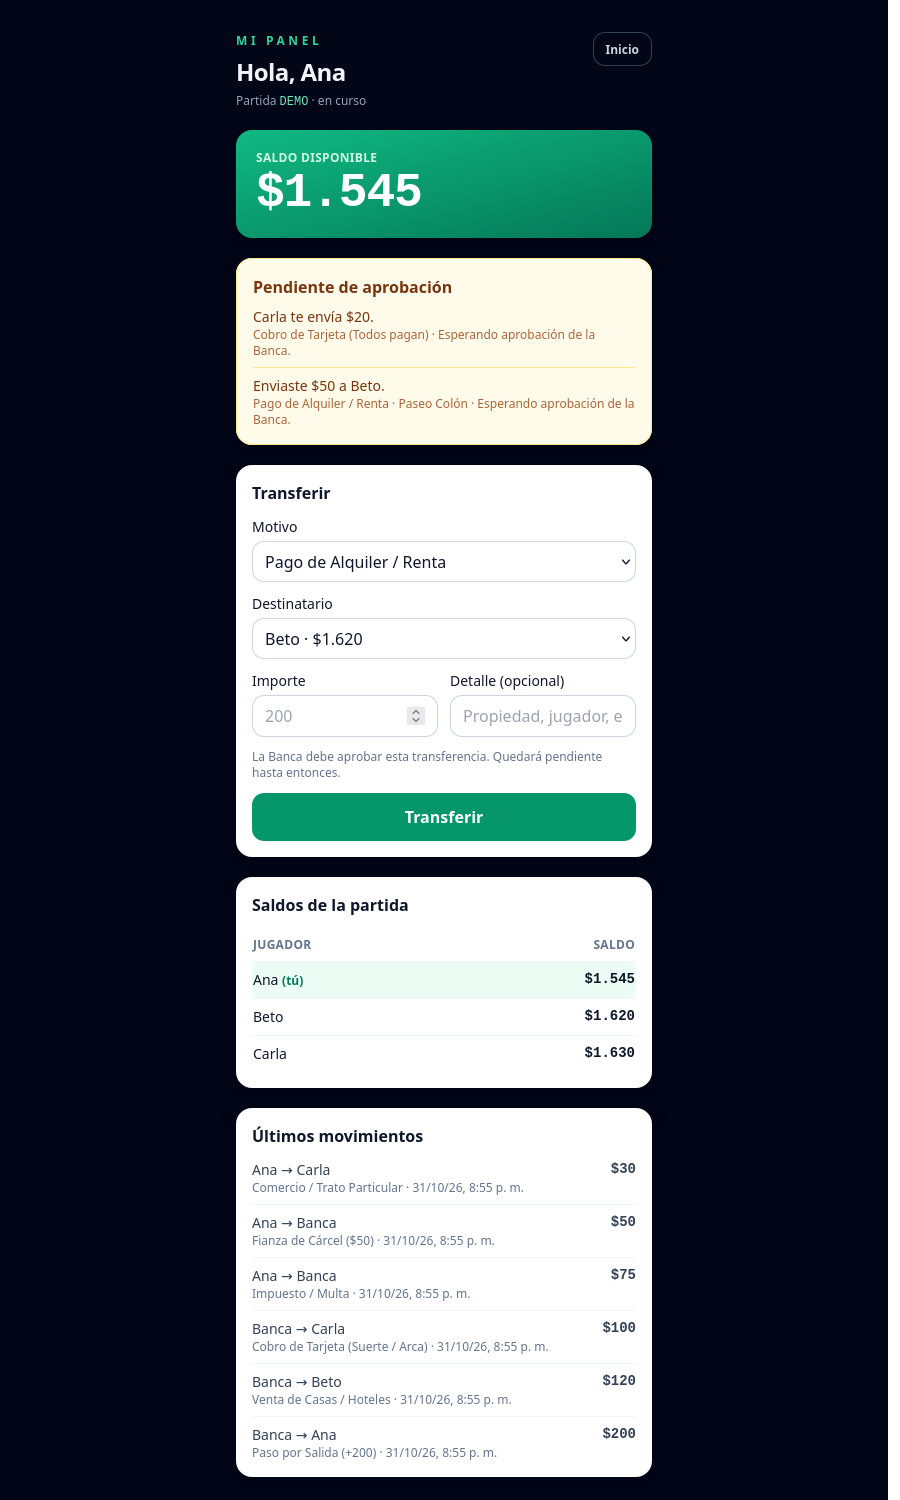
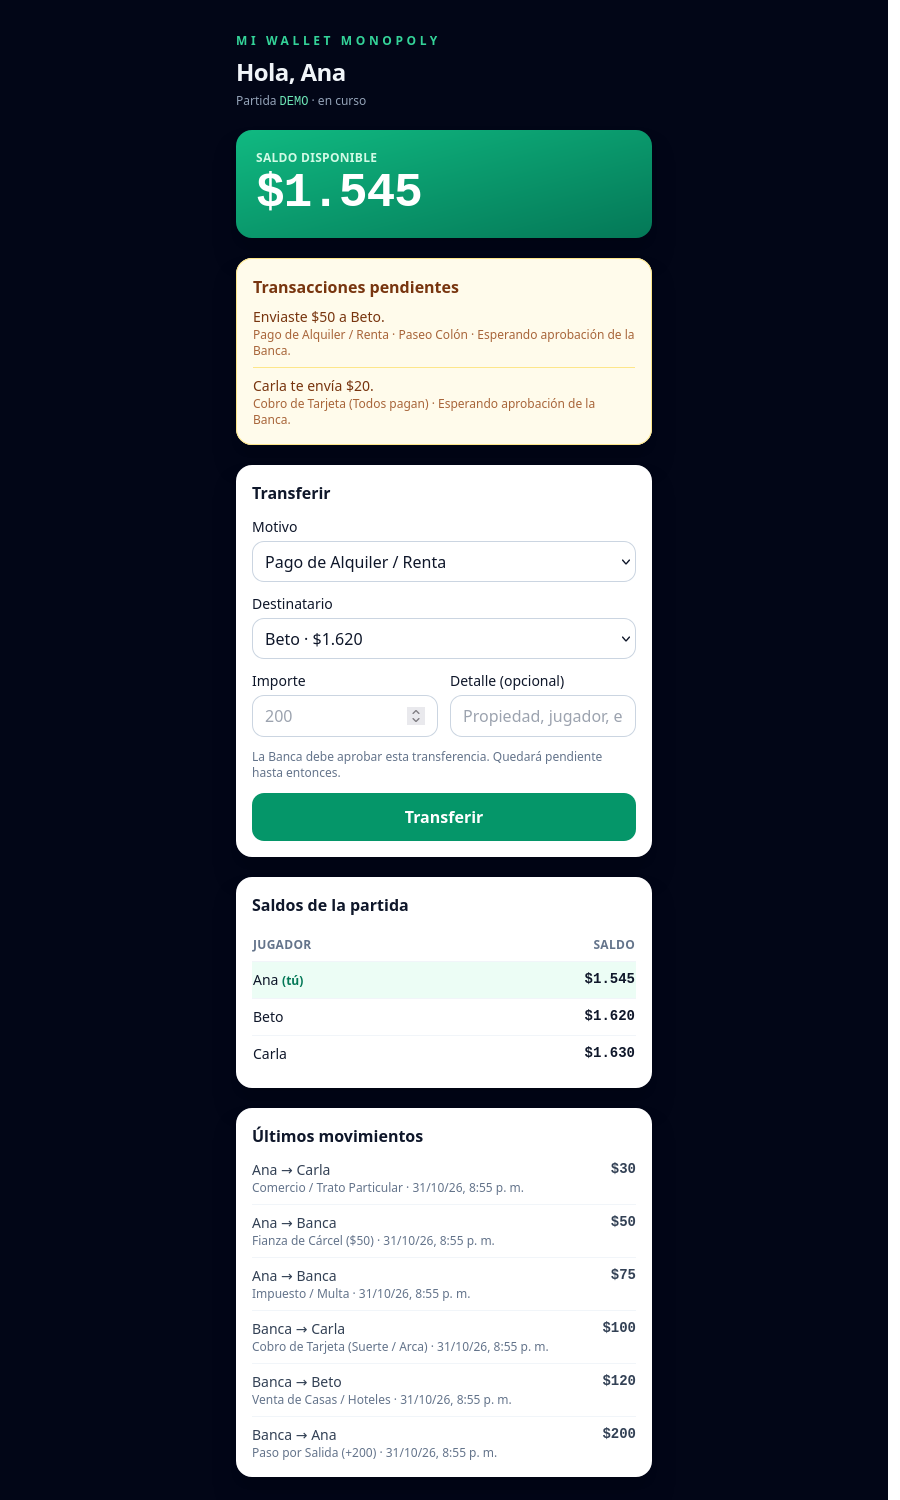
Actualiza etiquetas de los paneles de Banca y jugador

diff --git a/assets/js/player.js b/assets/js/player.js
@@ -33,20 +33,19 @@
     app.innerHTML =
       '<main class="min-h-screen bg-slate-950 text-slate-100">' +
       '<div class="mx-auto w-full max-w-md space-y-5 px-4 py-8">' +
-        '<header class="flex items-start justify-between gap-3">' +
+        '<header>' +
           '<div>' +
-            '<p class="text-xs font-semibold uppercase tracking-[0.3em] text-emerald-400">Mi panel</p>' +
+            '<p class="text-xs font-semibold uppercase tracking-[0.3em] text-emerald-400">Mi Wallet Monopoly</p>' +
             '<h1 class="mt-2 text-2xl font-black tracking-tight" id="player-name">Cargando...</h1>' +
             '<p id="game-status" class="mt-1 text-xs text-slate-400">Partida <span id="game-code" class="font-mono text-emerald-300">' + M.esc((config.code || '').toUpperCase()) + '</span></p>' +
           '</div>' +
-          '<a href="' + M.base + '/" class="rounded-xl border border-slate-700 px-3 py-2 text-xs font-semibold text-slate-300 hover:bg-slate-900">Inicio</a>' +
         '</header>' +
         '<section class="rounded-2xl bg-gradient-to-br from-emerald-500 to-emerald-700 p-5 text-white shadow-xl">' +
           '<p class="text-xs font-semibold uppercase tracking-wide text-emerald-100">Saldo disponible</p>' +
           '<p id="balance" class="mt-1 font-mono text-5xl font-black tracking-tight">$0</p>' +
         '</section>' +
         '<section id="pending-card" class="hidden rounded-2xl border border-amber-200 bg-amber-50 p-4 text-amber-900 shadow-xl">' +
-          '<h2 class="font-semibold">Pendiente de aprobación</h2>' +
+          '<h2 class="font-semibold">Transacciones pendientes</h2>' +
           '<div id="pending-list" class="mt-2 space-y-2 text-sm"></div>' +
         '</section>' +
         '<section class="rounded-2xl bg-white p-4 text-slate-900 shadow-xl">' +

diff --git a/assets/js/bank.js b/assets/js/bank.js
@@ -35,7 +35,7 @@
       '<div class="mx-auto w-full max-w-3xl space-y-5 px-4 py-8">' +
         '<header class="flex flex-wrap items-start justify-between gap-3">' +
           '<div>' +
-            '<p class="text-xs font-semibold uppercase tracking-[0.3em] text-emerald-400">Banca</p>' +
+            '<p class="text-xs font-semibold uppercase tracking-[0.3em] text-emerald-400">Banca Monopoly</p>' +
             '<h1 class="mt-2 text-2xl font-black tracking-tight">Partida <span id="game-code" class="font-mono text-emerald-300">' + M.esc(code) + '</span></h1>' +
             '<p id="game-status" class="mt-1 text-xs text-slate-400">Cargando estado...</p>' +
           '</div>' +
@@ -54,7 +54,7 @@
         '</section>' +
         '<section class="rounded-2xl bg-white p-4 text-slate-900 shadow-xl">' +
           '<div class="mb-3 flex items-center justify-between gap-3">' +
-            '<h2 class="font-semibold">Pendientes de aprobación</h2>' +
+            '<h2 class="font-semibold">Transacciones pendientes</h2>' +
             '<span id="pending-count" class="rounded-full bg-amber-100 px-2 py-0.5 text-xs font-semibold text-amber-800">0</span>' +
           '</div>' +
           '<div id="pending-list" class="space-y-2 text-sm"><p class="text-slate-500">Sin solicitudes pendientes.</p></div>' +

diff --git a/index.php b/index.php
@@ -34,7 +34,7 @@ $config = [
     'base'  => $base,
 ];
 $jsonFlags = JSON_UNESCAPED_UNICODE | JSON_HEX_TAG | JSON_HEX_APOS | JSON_HEX_QUOT | JSON_HEX_AMP | JSON_INVALID_UTF8_SUBSTITUTE;
-$v = '1.0.6';
+$v = '1.0.7';
 ?>
 <!doctype html>
 <html lang="es">
